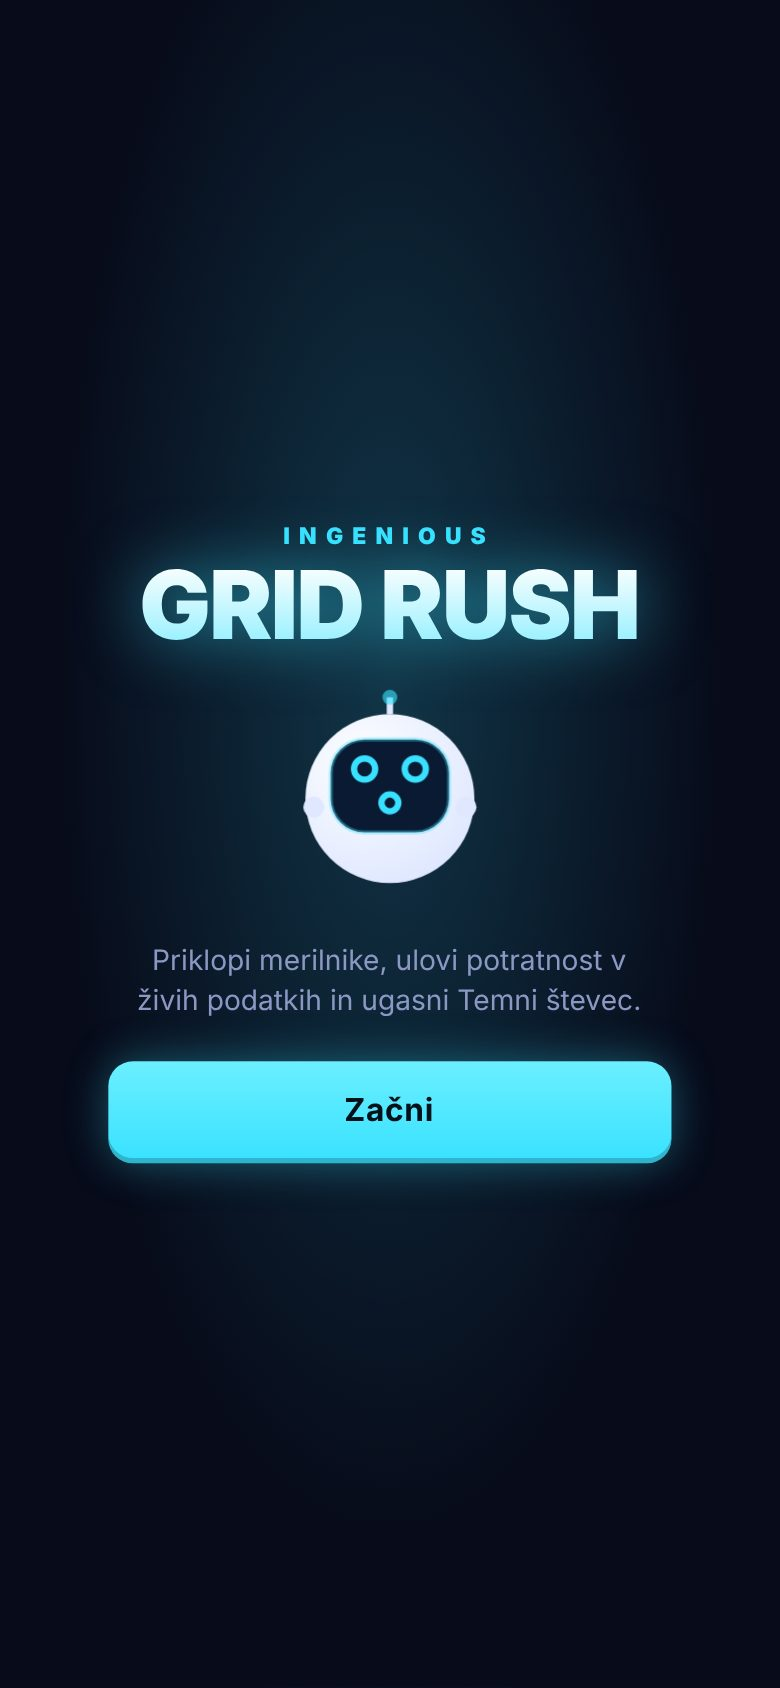
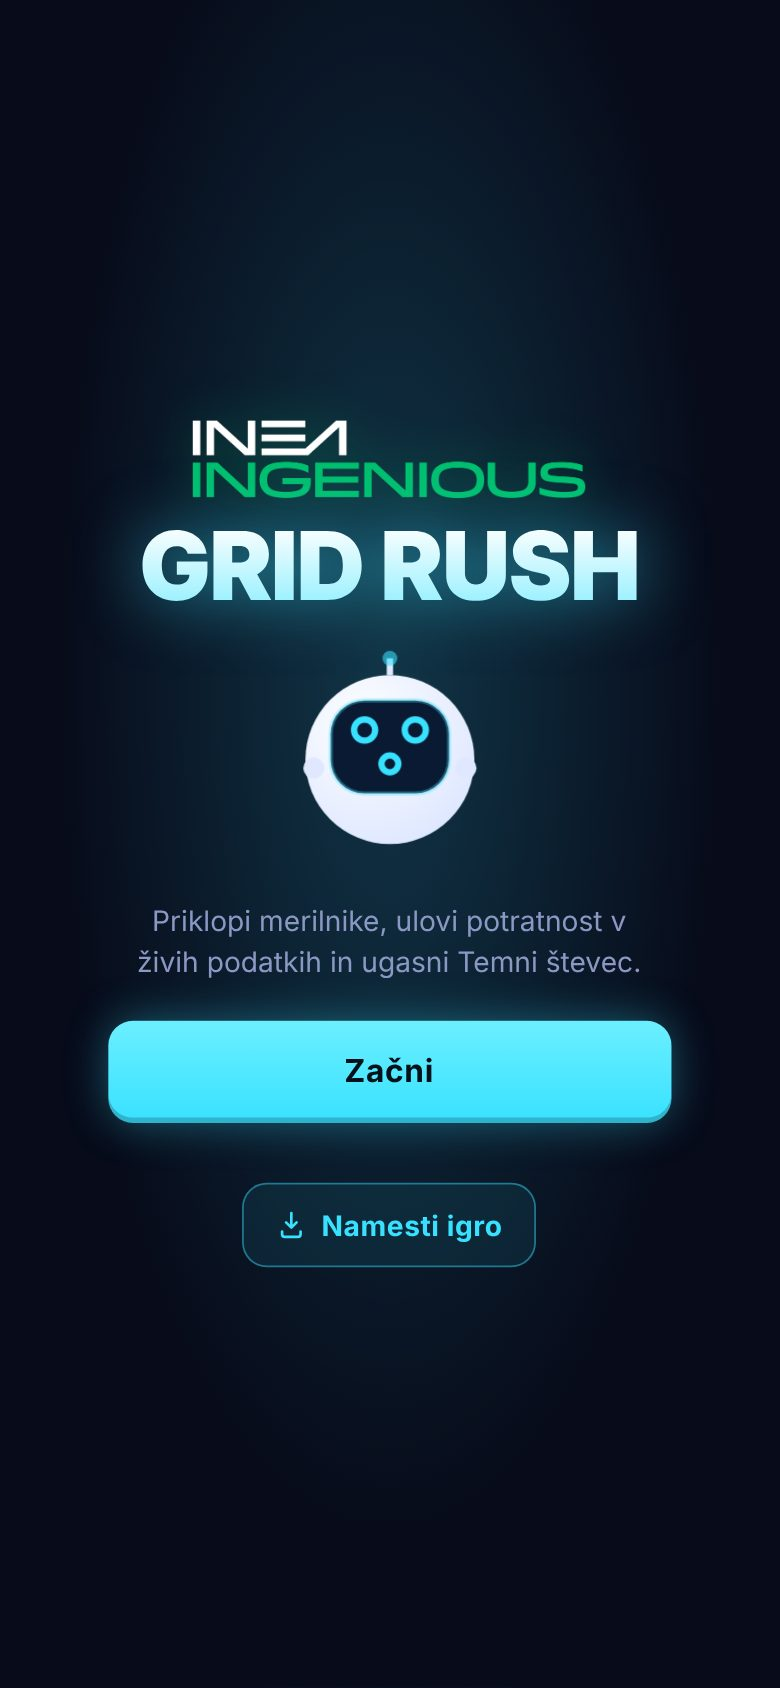
Logotip INEA InGenious na vstopni strani, v nastavitvah, špici, nalaganju in kartici za deljenje
Claude-Session: https://claude.ai/code/session_01VHW8rBYHxDiDR3FUts6qY4

Changed region(s): [[0.1231, 0.2464, 0.8615, 0.7393]]

diff --git a/src/ui/screens/Credits.tsx b/src/ui/screens/Credits.tsx
@@ -1,13 +1,14 @@
-import { useEffect, useState } from "preact/hooks";
-import { audio } from "../../audio/sfx";
-import { isFacilityLit } from "../../core/balance";
-import { fmt } from "../../core/format";
-import { FACILITIES, LEVELS, REGIONS } from "../../core/levels";
-import { useGame } from "../../state/store";
-import { nav } from "../nav";
-import { DarkMeter } from "../components/DarkMeter";
-import { Genko } from "../components/Genko";
-import { IsoFactory } from "../components/IsoFactory";
+import { useEffect, useState } from 'preact/hooks';
+import { audio } from '../../audio/sfx';
+import { isFacilityLit } from '../../core/balance';
+import { fmt } from '../../core/format';
+import { FACILITIES, LEVELS, REGIONS } from '../../core/levels';
+import { useGame } from '../../state/store';
+import { nav } from '../nav';
+import { DarkMeter } from '../components/DarkMeter';
+import { Genko } from '../components/Genko';
+import { IsoFactory } from '../components/IsoFactory';
+import { BrandLogo } from '../components/BrandLogo';
 
 /** How long the roll takes; the stinger plays after it. */
 const ROLL_MS = 46000;
@@ -21,46 +22,39 @@ export function Credits() {
   const lifetime = useGame((s) => s.lifetimeKwh);
   const reduced = useGame((s) => s.settings.reducedMotion);
   const [stinger, setStinger] = useState(false);
-  const campaign = LEVELS.filter((l) => !l.id.startsWith("daily-"));
+  const campaign = LEVELS.filter((l) => !l.id.startsWith('daily-'));
   const cleared = campaign.filter((l) => (levels[l.id]?.stars ?? 0) > 0).length;
   const stars = campaign.reduce((s, l) => s + (levels[l.id]?.stars ?? 0), 0);
   const lit = FACILITIES.filter((f) => isFacilityLit(f, levels)).length;
 
   useEffect(() => {
-    audio.play("win");
+    audio.play('win');
     const t = window.setTimeout(() => setStinger(true), reduced ? 0 : ROLL_MS);
     return () => clearTimeout(t);
   }, []);
 
   const close = () => {
-    audio.play("tap");
+    audio.play('tap');
     nav.setState({ credits: false });
-    nav.getState().go({ name: "tabs", tab: "map" });
+    nav.getState().go({ name: 'tabs', tab: 'map' });
   };
 
   return (
-    <div
-      class={`credits${stinger ? " end" : ""}`}
-      role="dialog"
-      aria-label="Odjavna špica"
-    >
+    <div class={`credits${stinger ? ' end' : ''}`} role="dialog" aria-label="Odjavna špica">
       <div class="credits-city" aria-hidden="true">
         {REGIONS.map((r) => FACILITIES.filter((f) => f.region === r.id).at(-1)!)
           .filter(Boolean)
           .map((f, i) => (
-            <div class="cc-fac" style={{ "--i": i }}>
+            <div class="cc-fac" style={{ '--i': i }}>
               <IsoFactory art={f.art} lit />
             </div>
           ))}
       </div>
       {!stinger && (
         <div class="credits-view">
-          <div
-            class="credits-roll"
-            style={{ animationDuration: `${ROLL_MS}ms` }}
-          >
+          <div class="credits-roll" style={{ animationDuration: `${ROLL_MS}ms` }}>
             <div class="cr-logo">
-              <small>InGenious</small>
+              <BrandLogo height={40} />
               <strong>Grid Rush</strong>
             </div>
             <p class="cr-quote">Kar je izmerjeno, ni pozabljeno.</p>
@@ -141,10 +135,7 @@ export function Credits() {
 
             <section>
               <h3>Posebna zahvala</h3>
-              <p class="cr-thanks">
-                Vsem energetskim managerjem, ki ponoči gledajo grafe, ko vsi
-                drugi spijo.
-              </p>
+              <p class="cr-thanks">Vsem energetskim managerjem, ki ponoči gledajo grafe, ko vsi drugi spijo.</p>
             </section>
 
             <p class="cr-quote big">Hvala, ker si igral.</p>

diff --git a/src/ui/screens/SettingsScreen.tsx b/src/ui/screens/SettingsScreen.tsx
@@ -6,6 +6,7 @@ import { Toggle } from '../components/Common';
 import { IconBack } from '../components/Icons';
 import { Genko } from '../components/Genko';
 import { InstallButton } from '../components/InstallButton';
+import { BrandLogo } from '../components/BrandLogo';
 
 export function SettingsScreen({ from }: { from: Screen }) {
   const settings = useGame((s) => s.settings);
@@ -90,7 +91,10 @@ export function SettingsScreen({ from }: { from: Screen }) {
         {confirm ? 'Res izbrišem ves napredek?' : 'Ponastavi napredek'}
       </button>
 
-      <div class="row" style={{ marginTop: '22px', opacity: 0.8 }}>
+      <div class="settings-brand">
+        <BrandLogo height={26} />
+      </div>
+      <div class="row" style={{ marginTop: '10px', opacity: 0.8 }}>
         <Genko size={40} mood="smug" />
         <p class="tiny muted grow">
           InGenious Grid Rush v{__APP_VERSION__} · igra deluje brez povezave. Brez nakupov, brez oglasov. Vsaka mehanika je funkcija platforme InGenious.

diff --git a/src/ui/screens/TitleScreen.tsx b/src/ui/screens/TitleScreen.tsx
@@ -5,6 +5,7 @@ import { useGame } from '../../state/store';
 import { nav } from '../nav';
 import { Genko } from '../components/Genko';
 import { InstallButton } from '../components/InstallButton';
+import { BrandLogo } from '../components/BrandLogo';
 
 export function TitleScreen() {
   const firstRun = useGame((s) => Object.keys(s.levels).length === 0 && s.stats.plays === 0);
@@ -20,7 +21,7 @@ export function TitleScreen() {
   return (
     <div class="title-screen" onClick={step >= 0 ? start : undefined}>
       <div class="logo">
-        <small>INGENIOUS</small>
+        <BrandLogo height={44} class="title-brand" />
         <span>GRID RUSH</span>
       </div>
       <Genko size={120} mood={step >= 0 ? 'happy' : 'wow'} />

diff --git a/src/styles.css b/src/styles.css
@@ -1734,6 +1734,30 @@ p {
   line-height: 0.95;
 }
 
+.brand-logo {
+  display: block;
+  width: auto;
+  max-width: 100%;
+  user-select: none;
+  -webkit-user-drag: none;
+}
+
+.title-brand {
+  margin: 0 auto 14px;
+  filter: drop-shadow(0 0 14px rgba(3, 192, 110, 0.35));
+}
+
+.cr-logo .brand-logo {
+  margin: 0 auto 12px;
+}
+
+.settings-brand {
+  display: grid;
+  justify-items: center;
+  margin-top: 26px;
+  opacity: 0.9;
+}
+
 .logo small {
   display: block;
   font-size: 13px;

diff --git a/index.html b/index.html
@@ -26,7 +26,7 @@
     </style>
   </head>
   <body>
-    <div id="app"><div id="boot"><div>GRID RUSH<i></i></div></div></div>
+    <div id="app"><div id="boot"><div><img src="brand/inea-ingenious.png" alt="INEA InGenious" height="30" style="display:block;height:30px;margin:0 auto 14px" />GRID RUSH<i></i></div></div></div>
     <noscript>Za igranje InGenious Grid Rush omogoči JavaScript.</noscript>
     <script type="module" src="/src/main.tsx"></script>
   </body>

diff --git a/src/ui/components/BrandLogo.tsx b/src/ui/components/BrandLogo.tsx
@@ -1,0 +1,4 @@
+/** The INEA InGenious wordmark (white INEA, green INGENIOUS), drawn for dark backgrounds. */
+export function BrandLogo({ height = 32, class: cls = '' }: { height?: number; class?: string }) {
+  return <img class={`brand-logo ${cls}`} src={`${import.meta.env.BASE_URL}brand/inea-ingenious.png`} alt="INEA InGenious" height={height} style={{ height: `${height}px` }} draggable={false} />;
+}
